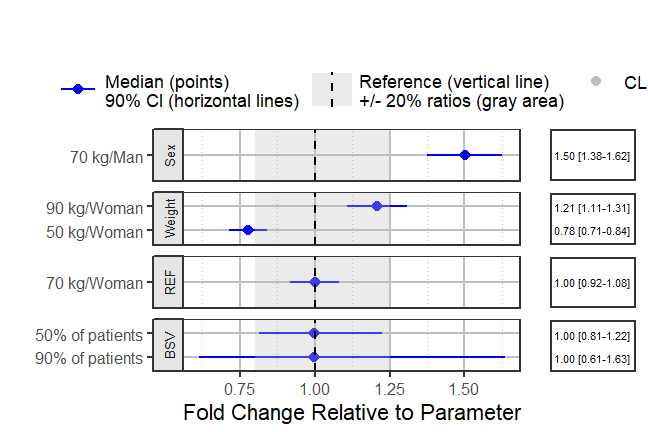
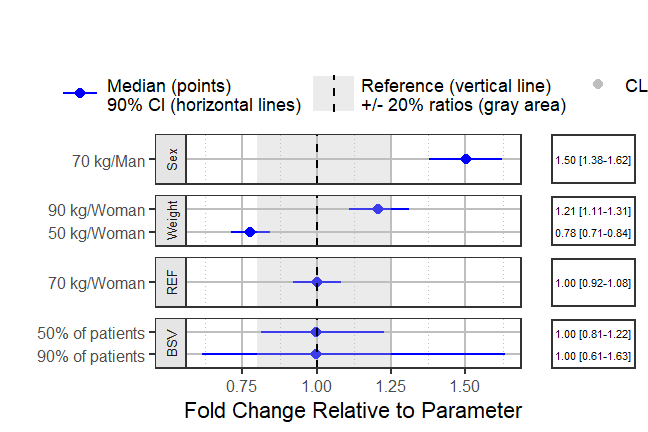
preparing for release. fixed a bug with ggplot dev and added options to control table strips. added more examples on how to tweak the plots

diff --git a/NEWS.md b/NEWS.md
@@ -1,6 +1,10 @@
-# coveffectsplot 0.0.2.9000
+# coveffectsplot 0.0.3
 
 * added an option to return a list of plots to enable further modification to the ggplot(s) if need be
+* updated the vignette and examples to demo the new options
+* added possibility to choose on which facet to show stripts for the table
+* fixed a bug that showed up with ggplot dev version by explictly defining a data.frame to the data argument
+* minor ui tweaks to enable named colors in colourpicker
 
 # coveffectsplot 0.0.2
 
